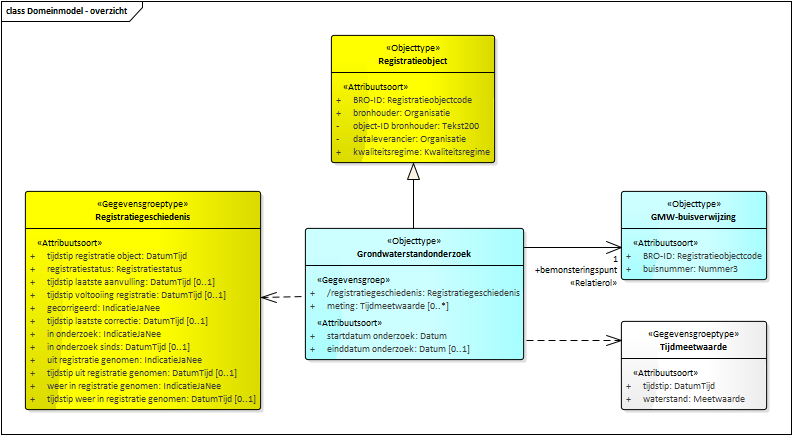
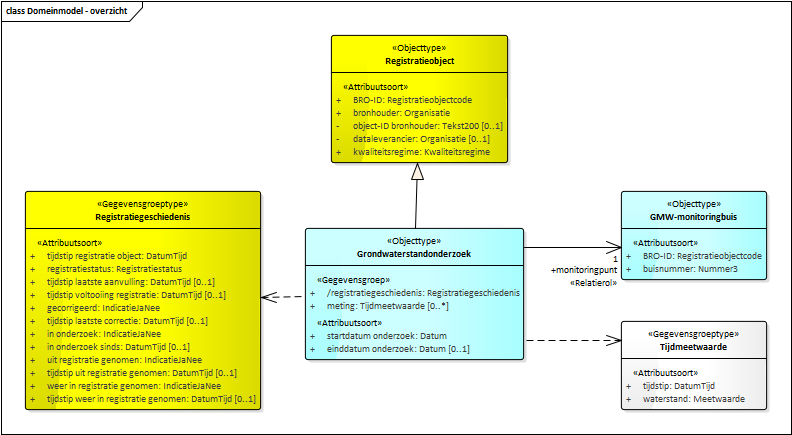
Conceptualmodel-GrondwaterstandonderzoekGLD-0.1-1-20190617-20190626-085714

diff --git a/data/GLD-cat.html b/data/GLD-cat.html
@@ -2,13 +2,13 @@
 <section id="cat" class="normative" level="1">
    <h2>Catalogus</h2>
    <p><b>Deze tekst is normatief.</b>
-      <!--Conceptualmodel-GrondwaterstandonderzoekGLD-0.1-1-20190617-20190620-110036 imvertor 1.53.2--></p>
+      <!--Conceptualmodel-GrondwaterstandonderzoekGLD-0.1-1-20190617-20190626-085714 imvertor 1.53.2--></p>
    <div class="imageinfo overview"><img src="data/Images/EAID_08E27657_5603_4b75_BB8B_47B282A97D63.png" usemap="#imagemap-EAID_08E27657_5603_4b75_BB8B_47B282A97D63"><map name="imagemap-EAID_08E27657_5603_4b75_BB8B_47B282A97D63">
          <area shape="rect" coords="621,410,767,321" alt="" href="#graph_EAID_5FC959F0_5ED2_47e7_8C6C_68C408128425">
          <area shape="rect" coords="25,410,261,191" alt="" href="#graph_EAID_0D009A59_1E9A_4fc2_867A_9006A9464AA7">
          <area shape="rect" coords="621,280,767,191" alt="" href="#graph_EAID_3337CDCE_0A5D_4aee_AEB0_14AF7652B102">
          <area shape="rect" coords="305,360,524,228" alt="" href="#graph_EAID_5876720F_795D_40b5_82B8_BC782B71FA3A">
-         <area shape="rect" coords="331,163,495,35" alt="" href="#graph_EAID_04FC4CF0_BE4E_421a_A62C_E3F00BED26A0"></map><p><b>Domeinmodel - overzicht</b></p>
+         <area shape="rect" coords="331,163,508,35" alt="" href="#graph_EAID_04FC4CF0_BE4E_421a_A62C_E3F00BED26A0"></map><p><b>Domeinmodel - overzicht</b></p>
    </div>
    <section id="" level="3">
       <h3>Objecttypen </h3>
@@ -110,7 +110,7 @@
                      <a class="link" href="#global_class_xsstring">Tekst200</a>
                      
                   </td>
-                  <td>1</td>
+                  <td>0 .. 1</td>
                </tr>
                <tr>
                   <td>
@@ -129,7 +129,7 @@
                      <a class="link" href="#global_class_OrganizationType">Organisatie</a>
                      
                   </td>
-                  <td>1</td>
+                  <td>0 .. 1</td>
                </tr>
                <tr>
                   <td>
@@ -546,10 +546,10 @@
                      Grondwaterstandonderzoek
                      [ 1 ]
                      
-                     <a class="link" href="#detail_association_Model_Grondwaterstandonderzoek_bemonsteringspunt">bemonsteringspunt: bemonsteringspunt</a>
+                     <a class="link" href="#detail_association_Model_Grondwaterstandonderzoek_monitoringpunt">monitoringpunt: monitoringpunt</a>
                      
                      
-                     <a class="link" href="#global_class_Model_GMWBuisverwijzing">GMW-buisverwijzing</a>
+                     <a class="link" href="#global_class_Model_GMWMonitoringbuis">GMW-monitoringbuis</a>
                      
                      [ 1 ]
                      
@@ -567,8 +567,8 @@
          
          
       </section>
-      <a class="anchor" name="graph_EAID_3337CDCE_0A5D_4aee_AEB0_14AF7652B102"></a><a class="anchor" name="global_class_Model_GMWBuisverwijzing"></a><section id="global_class_Model_GMWBuisverwijzing" level="4">
-         <h4>Objecttype GMW-buisverwijzing</h4>
+      <a class="anchor" name="graph_EAID_3337CDCE_0A5D_4aee_AEB0_14AF7652B102"></a><a class="anchor" name="global_class_Model_GMWMonitoringbuis"></a><section id="global_class_Model_GMWMonitoringbuis" level="4">
+         <h4>Objecttype GMW-monitoringbuis</h4>
          
          <table>
             <colgroup width="30%"></colgroup>
@@ -576,7 +576,7 @@
             <tbody>
                <tr>
                   <th>Naam</th>
-                  <td>GMW-buisverwijzing</td>
+                  <td>GMW-monitoringbuis</td>
                </tr>
                <tr>
                   <th>Herkomst</th>
@@ -586,8 +586,8 @@
                   <th>Definitie</th>
                   <td>
                      
-                     <p xmlns="http://www.w3.org/1999/xhtml" xmlns:html="http://www.w3.org/1999/xhtml" xmlns:imvert="http://www.imvertor.org/schema/system">De gegevens die nodig zijn voor een verwijzing naar een specifieke buis in een grondwatermonitoringput.
-                        
+                     <p xmlns="http://www.w3.org/1999/xhtml" xmlns:html="http://www.w3.org/1999/xhtml" xmlns:imvert="http://www.imvertor.org/schema/system">De gegevens die nodig zijn voor de unieke identificatie van een specifieke buis in
+                        een grondwatermonitoringput. 
                      </p>
                      
                   </td>
@@ -624,7 +624,7 @@
                </tr>
                <tr>
                   <td>
-                     <a class="link" href="#detail_attribute_Model_GMWBuisverwijzing_bROID">BRO-ID</a>
+                     <a class="link" href="#detail_attribute_Model_GMWMonitoringbuis_bROID">BRO-ID</a>
                      
                   </td>
                   <td>
@@ -641,7 +641,7 @@
                </tr>
                <tr>
                   <td>
-                     <a class="link" href="#detail_attribute_Model_GMWBuisverwijzing_buisnummer">buisnummer</a>
+                     <a class="link" href="#detail_attribute_Model_GMWMonitoringbuis_buisnummer">buisnummer</a>
                      
                   </td>
                   <td>
@@ -679,9 +679,9 @@
                      
                      [ 1 ]
                      
-                     <a class="link" href="#detail_association_Model_Grondwaterstandonderzoek_bemonsteringspunt">bemonsteringspunt: bemonsteringspunt</a>
+                     <a class="link" href="#detail_association_Model_Grondwaterstandonderzoek_monitoringpunt">monitoringpunt: monitoringpunt</a>
                      
-                     GMW-buisverwijzing
+                     GMW-monitoringbuis
                      [ 1 ]
                      
                   </td>
@@ -937,7 +937,7 @@
                   </tr>
                   <tr>
                      <th>Indicatie kardinaliteit</th>
-                     <td>1</td>
+                     <td>0 .. 1</td>
                   </tr>
                   <tr>
                      <th>Indicatie authentiek</th>
@@ -1010,7 +1010,7 @@
                   </tr>
                   <tr>
                      <th>Indicatie kardinaliteit</th>
-                     <td>1</td>
+                     <td>0 .. 1</td>
                   </tr>
                   <tr>
                      <th>Indicatie authentiek</th>
@@ -2046,20 +2046,6 @@
                      <td>BRO</td>
                   </tr>
                   <tr>
-                     <th>Toelichting</th>
-                     <td>
-                        
-                        <p xmlns="http://www.w3.org/1999/xhtml" xmlns:html="http://www.w3.org/1999/xhtml" xmlns:imvert="http://www.imvertor.org/schema/system">Als dit gegeven niet aanwezig is, dan krijgt het gegeven registratiestatus van de
-                           gegevensgroep Registratiegeschiedenis de waarde geregistreerd.
-                        </p>
-                        
-                        <p xmlns="http://www.w3.org/1999/xhtml" xmlns:html="http://www.w3.org/1999/xhtml" xmlns:imvert="http://www.imvertor.org/schema/system">Als dit gegeven aanwezig is of wordt toegevoegd, dan krijgt het gegeven registratiestatus
-                           van de gegevensgroep Registratiegeschiedenis de waarde voltooid.
-                        </p>
-                        
-                     </td>
-                  </tr>
-                  <tr>
                      <th>Mogelijk geen waarde</th>
                      <td>Nee</td>
                   </tr>
@@ -2257,8 +2243,8 @@
             </section>
             
          </section>
-         <a class="anchor" name="detail_association_Model_Grondwaterstandonderzoek_bemonsteringspunt"></a><section id="detail_association_Model_Grondwaterstandonderzoek_bemonsteringspunt" level="5">
-            <h5>Relatiesoort details <a href="#global_class_Model_Grondwaterstandonderzoek">Grondwaterstandonderzoek</a> bemonsteringspunt
+         <a class="anchor" name="detail_association_Model_Grondwaterstandonderzoek_monitoringpunt"></a><section id="detail_association_Model_Grondwaterstandonderzoek_monitoringpunt" level="5">
+            <h5>Relatiesoort details <a href="#global_class_Model_Grondwaterstandonderzoek">Grondwaterstandonderzoek</a> monitoringpunt
             </h5>
             
             
@@ -2268,7 +2254,7 @@
                <tbody>
                   <tr>
                      <th>Naam</th>
-                     <td>bemonsteringspunt</td>
+                     <td>monitoringpunt</td>
                   </tr>
                   <tr>
                      <th>Definitie</th>
@@ -2295,7 +2281,7 @@
                   <tr>
                      <th>Gerelateerd objecttype</th>
                      <td>
-                        <a class="link" href="#global_class_Model_GMWBuisverwijzing">GMW-buisverwijzing</a>
+                        <a class="link" href="#global_class_Model_GMWMonitoringbuis">GMW-monitoringbuis</a>
                         
                      </td>
                   </tr>
@@ -2305,10 +2291,10 @@
          </section>
          
       </section>
-      <a class="anchor" name="detail_class_Model_GMWBuisverwijzing"></a><section id="detail_class_Model_GMWBuisverwijzing" level="4">
-         <h4>Objecttype GMW-buisverwijzing</h4>
-         <a class="anchor" name="detail_attribute_Model_GMWBuisverwijzing_bROID"></a><section id="detail_attribute_Model_GMWBuisverwijzing_bROID" level="5">
-            <h5>Attribuutsoort details <a href="#global_class_Model_GMWBuisverwijzing">GMW-buisverwijzing</a> BRO-ID
+      <a class="anchor" name="detail_class_Model_GMWMonitoringbuis"></a><section id="detail_class_Model_GMWMonitoringbuis" level="4">
+         <h4>Objecttype GMW-monitoringbuis</h4>
+         <a class="anchor" name="detail_attribute_Model_GMWMonitoringbuis_bROID"></a><section id="detail_attribute_Model_GMWMonitoringbuis_bROID" level="5">
+            <h5>Attribuutsoort details <a href="#global_class_Model_GMWMonitoringbuis">GMW-monitoringbuis</a> BRO-ID
             </h5>
             
             <table>
@@ -2372,8 +2358,8 @@
             </table>
             
          </section>
-         <a class="anchor" name="detail_attribute_Model_GMWBuisverwijzing_buisnummer"></a><section id="detail_attribute_Model_GMWBuisverwijzing_buisnummer" level="5">
-            <h5>Attribuutsoort details <a href="#global_class_Model_GMWBuisverwijzing">GMW-buisverwijzing</a> buisnummer
+         <a class="anchor" name="detail_attribute_Model_GMWMonitoringbuis_buisnummer"></a><section id="detail_attribute_Model_GMWMonitoringbuis_buisnummer" level="5">
+            <h5>Attribuutsoort details <a href="#global_class_Model_GMWMonitoringbuis">GMW-monitoringbuis</a> buisnummer
             </h5>
             
             <table>
@@ -2451,7 +2437,7 @@
 <section id="lis" class="normative" level="1">
    <h2>Inhoud van waardenlijsten</h2>
    <p><b>Deze tekst is normatief.</b>
-      <!--Conceptualmodel-GrondwaterstandonderzoekGLD-0.1-1-20190617-20190620-110036 imvertor 1.53.2--></p><a class="anchor" name="graph_EAID_740CAB3C_79DD_4730_9E98_E6FA02EB5243"></a><a class="anchor" name="detail_class_Model_Registratiestatus"></a><section id="detail_class_Model_Registratiestatus" level="3">
+      <!--Conceptualmodel-GrondwaterstandonderzoekGLD-0.1-1-20190617-20190626-085714 imvertor 1.53.2--></p><a class="anchor" name="graph_EAID_740CAB3C_79DD_4730_9E98_E6FA02EB5243"></a><a class="anchor" name="detail_class_Model_Registratiestatus"></a><section id="detail_class_Model_Registratiestatus" level="3">
       <h3>Codelijst details Registratiestatus</h3>
       
       <table>
